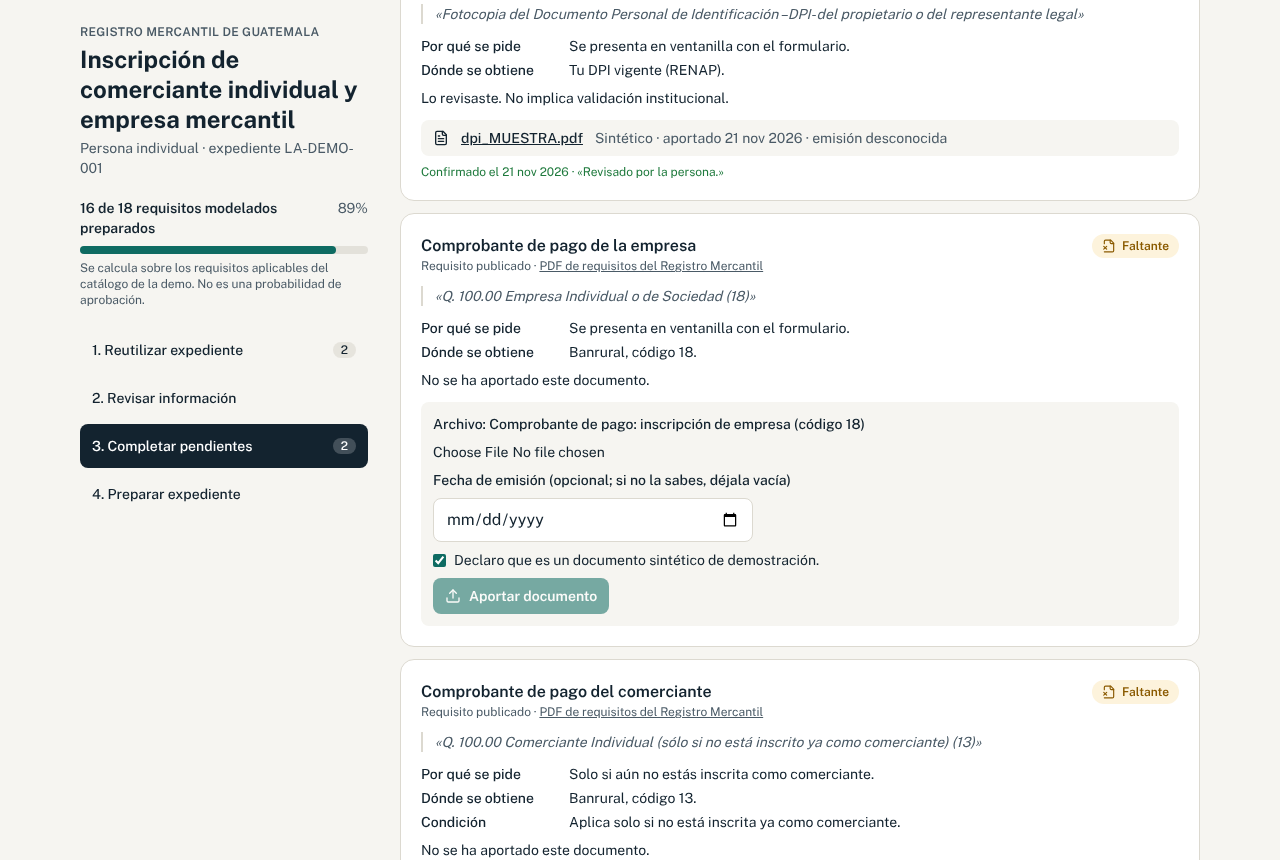
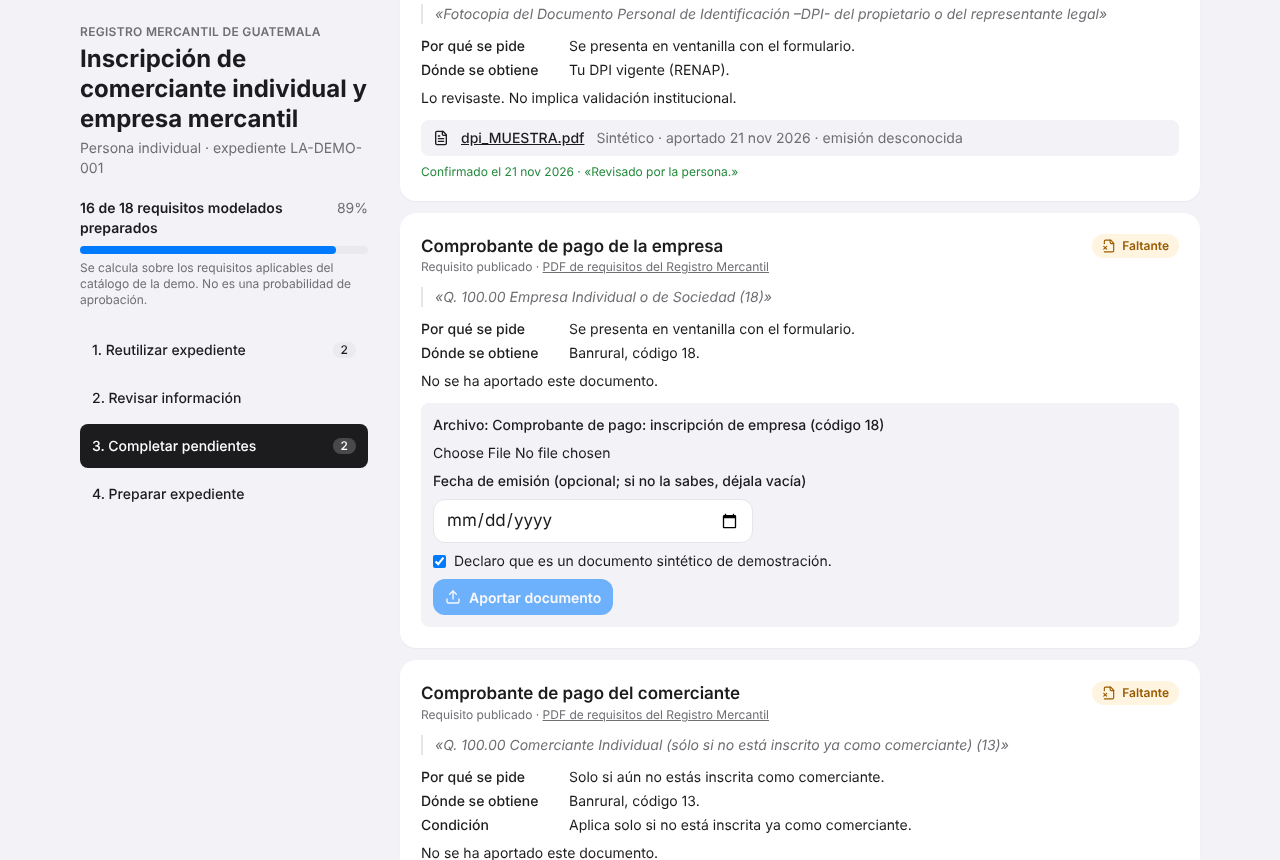
Pantalla principal con buscador de trámites y página de inicio por trámite con video de ejemplo (estilo iOS)

diff --git a/src/app/page.tsx b/src/app/page.tsx
@@ -1,73 +1,43 @@
 import Link from "next/link";
-import { Building2, ShieldPlus, ArrowRightLeft } from "lucide-react";
-import { IniciarTramite } from "@/components/IniciarTramite";
-import { BarraAvance } from "@/components/ui";
+import { Buscador, type OpcionTramite } from "@/components/Buscador";
 import { ESTADO_SALIDA } from "@/domain/exportar";
-import { catalogo, evaluar, fuentesImportadas, procesoPorTramite } from "@/server/repo";
+import { catalogo, evaluar, procesoPorTramite } from "@/server/repo";
 
 export const dynamic = "force-dynamic";
 
-const ICONOS: Record<string, typeof Building2> = { "rm-comerciante-empresa": Building2, "igss-inscripcion-patronal": ShieldPlus };
+const PALABRAS: Record<string, { resumen: string; palabras: string[] }> = {
+  "rm-comerciante-empresa": {
+    resumen: "Inscribe tu negocio y obtén la patente de comercio.",
+    palabras: ["registro mercantil", "empresa", "negocio", "comercio", "comerciante", "patente", "abrir", "inscribir", "tienda"],
+  },
+  "igss-inscripcion-patronal": {
+    resumen: "Inscríbete como patrono cuando tienes trabajadores.",
+    palabras: ["igss", "seguro social", "patrono", "patronal", "trabajadores", "empleados", "afiliación"],
+  },
+};
 
 export default function Inicio() {
-  const fuentes = fuentesImportadas();
+  const tramites: OpcionTramite[] = catalogo.tramites.map((t) => {
+    const ev = procesoPorTramite(t.id) ? evaluar(t.id) : null;
+    return {
+      id: t.id,
+      nombre: t.nombre,
+      institucion: t.institucion,
+      resumen: PALABRAS[t.id]?.resumen ?? "",
+      palabras: PALABRAS[t.id]?.palabras ?? [],
+      estado: ev ? `En curso · ${ev.evaluacion.resumen.preparados} de ${ev.evaluacion.resumen.aplicables} listos · ${ESTADO_SALIDA[ev.evaluacion.resumen.estadoExpediente]}` : null,
+    };
+  });
   return (
-    <div className="space-y-10">
-      <section className="max-w-3xl">
-        <p className="text-sm font-semibold uppercase tracking-wide text-marca">Expediente de María López · comerciante ficticia</p>
-        <h1 className="mt-2 text-3xl font-bold tracking-tight sm:text-4xl">Prepara tus trámites sin volver a escribir lo que ya existe</h1>
-        <p className="mt-3 text-lg text-tinta-suave">
-          LegacyArchive lee tus datos de sistemas incompatibles, conserva de dónde salió cada valor y te pide solo lo que falta o lo que hay que confirmar.
-          El resultado es un expediente descargable para continuar por el canal oficial.
-        </p>
-      </section>
-
-      <section aria-labelledby="titulo-tramites">
-        <h2 id="titulo-tramites" className="text-xl font-bold">1. Elige el trámite</h2>
-        <div className="mt-4 grid gap-4 lg:grid-cols-2">
-          {catalogo.tramites.map((t, i) => {
-            const p = procesoPorTramite(t.id);
-            const ev = p ? evaluar(t.id) : null;
-            const Icono = ICONOS[t.id] ?? Building2;
-            return (
-              <article key={t.id} className="tarjeta flex flex-col gap-5 p-5 sm:p-6">
-                <div className="flex items-start gap-3">
-                  <span className="grid size-11 shrink-0 place-items-center rounded-xl bg-marca-clara text-marca"><Icono aria-hidden className="size-6" /></span>
-                  <div>
-                    <p className="text-xs font-semibold uppercase tracking-wide text-tinta-suave">Paso {i + 1} · {t.institucion}</p>
-                    <h3 className="text-lg font-bold leading-snug">{t.nombre}</h3>
-                  </div>
-                </div>
-                {ev ? (
-                  <div className="space-y-2">
-                    <BarraAvance preparados={ev.evaluacion.resumen.preparados} aplicables={ev.evaluacion.resumen.aplicables} />
-                    <p className="text-sm"><span className="font-semibold">Estado:</span> {ESTADO_SALIDA[ev.evaluacion.resumen.estadoExpediente]}</p>
-                  </div>
-                ) : (
-                  <p className="text-sm text-tinta-suave">
-                    {t.id === "igss-inscripcion-patronal"
-                      ? "Aplica a patronos que ocupen uno o más trabajadores. Reutiliza lo que ya preparaste para el Registro Mercantil."
-                      : "Primer expediente: importa tus fuentes, resuelve diferencias y descubre qué falta."}
-                  </p>
-                )}
-                <div className="mt-auto">
-                  <IniciarTramite tramiteId={t.id} preguntaInscrita={t.id === "rm-comerciante-empresa"} abierto={!!p} />
-                </div>
-              </article>
-            );
-          })}
-        </div>
-      </section>
-
-      <section className="tarjeta flex flex-col gap-3 p-5 sm:flex-row sm:items-center sm:justify-between">
-        <div className="flex items-start gap-3">
-          <ArrowRightLeft aria-hidden className="mt-0.5 size-5 text-marca" />
-          <p className="text-sm">
-            <strong>{fuentes.length} fuentes importadas</strong> en tu expediente. Los archivos originales no se modifican; cada corrección queda registrada aquí con fecha y motivo.
-          </p>
-        </div>
-        <Link href="/expediente" className="boton boton-secundario boton-chico">Ver mi expediente</Link>
-      </section>
+    <div className="flex min-h-[60dvh] flex-col items-center pt-4 sm:pt-12">
+      <h1 className="text-center text-[34px] font-bold leading-tight tracking-tight sm:text-5xl">¿Qué trámite deseas hacer hoy?</h1>
+      <p className="mt-3 max-w-xl text-center text-lg text-tinta-suave">Escribe lo que necesitas. Te pedimos solo lo que falta.</p>
+      <div className="mt-8 w-full">
+        <Buscador tramites={tramites} />
+      </div>
+      <p className="mt-10 text-center text-sm text-tinta-suave">
+        Persona de la demo: María López (ficticia). <Link href="/expediente" className="text-marca">Ver mi expediente</Link>
+      </p>
     </div>
   );
 }

diff --git a/src/components/IniciarTramite.tsx b/src/components/IniciarTramite.tsx
@@ -21,7 +21,7 @@ export function IniciarTramite({ tramiteId, preguntaInscrita, abierto }: { trami
 
   return (
     <form
-      className="space-y-4"
+      className="space-y-5"
       onSubmit={async (e) => {
         e.preventDefault();
         const r = await ejecutar("/api/procesos", { tramiteId, tipoSolicitante: "persona_individual", copropiedad, ...(preguntaInscrita ? { inscrita_comerciante: inscrita } : {}) });
@@ -29,13 +29,13 @@ export function IniciarTramite({ tramiteId, preguntaInscrita, abierto }: { trami
       }}
     >
       <fieldset>
-        <legend className="text-sm font-semibold">Tipo de solicitante</legend>
+        <legend className="text-[17px] font-semibold">Tipo de solicitante</legend>
         <div className="mt-2 grid gap-2 sm:grid-cols-2">
-          <label className="flex items-start gap-2 rounded-lg border border-marca bg-marca-clara p-3 text-sm">
+          <label className="flex items-start gap-3 rounded-xl border-2 border-marca bg-marca-clara p-3.5 text-[15px]">
             <input type="radio" name={`tipo-${tramiteId}`} defaultChecked className="mt-1 accent-marca" />
             <span><strong>Persona individual</strong><br />Comerciante, propietaria única</span>
           </label>
-          <label className="flex items-start gap-2 rounded-lg border border-linea p-3 text-sm text-tinta-suave">
+          <label className="flex items-start gap-3 rounded-xl border border-linea p-3.5 text-[15px] text-tinta-suave">
             <input type="radio" name={`tipo-${tramiteId}`} disabled className="mt-1" />
             <span><strong>Sociedad</strong><br />Fuera del alcance de la demo</span>
           </label>
@@ -45,7 +45,7 @@ export function IniciarTramite({ tramiteId, preguntaInscrita, abierto }: { trami
         <Pregunta nombre={`inscrita-${tramiteId}`} texto="¿Ya estás inscrita como comerciante individual?" valor={inscrita} onChange={setInscrita} ayuda="Define si aplica el pago de comerciante (código 13)." />
       )}
       <Pregunta nombre={`copro-${tramiteId}`} texto="¿La empresa tiene copropietarios?" valor={copropiedad} onChange={setCopropiedad} ayuda={copropiedad === "si" ? "La demo no modela copropiedad completa; se pedirán documentos adicionales." : "Responde con lo que sabes hoy; puedes corregirlo después."} />
-      <button className="boton boton-primario w-full sm:w-auto" disabled={ocupado}>
+      <button className="boton boton-primario w-full" disabled={ocupado}>
         {ocupado ? "Abriendo…" : "Empezar este trámite"} <ArrowRight aria-hidden className="size-4" />
       </button>
       <MensajeError error={error} />
@@ -56,16 +56,16 @@ export function IniciarTramite({ tramiteId, preguntaInscrita, abierto }: { trami
 function Pregunta({ nombre, texto, valor, onChange, ayuda }: { nombre: string; texto: string; valor: "si" | "no"; onChange: (v: "si" | "no") => void; ayuda: string }) {
   return (
     <fieldset>
-      <legend className="text-sm font-semibold">{texto}</legend>
-      <div className="mt-2 flex gap-2">
+      <legend className="text-[17px] font-semibold">{texto}</legend>
+      <div className="mt-2 grid grid-cols-2 gap-1 rounded-xl bg-papel p-1 sm:max-w-xs">
         {(["no", "si"] as const).map((v) => (
-          <label key={v} className={`flex min-h-11 cursor-pointer items-center gap-2 rounded-lg border px-4 text-sm ${valor === v ? "border-marca bg-marca-clara font-semibold" : "border-linea bg-white"}`}>
-            <input type="radio" name={nombre} checked={valor === v} onChange={() => onChange(v)} className="accent-marca" />
+          <label key={v} className={`flex min-h-11 cursor-pointer items-center justify-center rounded-lg text-[17px] transition-[background-color,box-shadow] duration-150 has-[:focus-visible]:ring-2 has-[:focus-visible]:ring-marca ${valor === v ? "bg-white font-semibold shadow-[0_1px_3px_rgba(0,0,0,.12)]" : "text-tinta-suave"}`}>
+            <input type="radio" name={nombre} checked={valor === v} onChange={() => onChange(v)} className="sr-only" />
             {v === "si" ? "Sí" : "No"}
           </label>
         ))}
       </div>
-      <p className="mt-1 text-xs text-tinta-suave">{ayuda}</p>
+      <p className="mt-1.5 text-sm text-tinta-suave">{ayuda}</p>
     </fieldset>
   );
 }

diff --git a/src/app/tramite/[id]/inicio/page.tsx b/src/app/tramite/[id]/inicio/page.tsx
@@ -1,0 +1,67 @@
+import Link from "next/link";
+import { notFound } from "next/navigation";
+import { ChevronLeft, ExternalLink, PlayCircle } from "lucide-react";
+import { IniciarTramite } from "@/components/IniciarTramite";
+import { procesoPorTramite, tramite } from "@/server/repo";
+
+export const dynamic = "force-dynamic";
+
+const EXPLICACION: Record<string, { resumen: string; pasos: string[] }> = {
+  "rm-comerciante-empresa": {
+    resumen: "Sirve para inscribirte como comerciante individual e inscribir tu empresa. Al final obtienes la patente de comercio.",
+    pasos: ["Respondes tres preguntas.", "Traemos tus datos de los sistemas donde ya están.", "Revisas, completas lo que falta y descargas tu expediente."],
+  },
+  "igss-inscripcion-patronal": {
+    resumen: "Si tu negocio tiene uno o más trabajadores, debes inscribirte como patrono en el IGSS.",
+    pasos: ["Respondes una pregunta.", "Usamos lo que ya preparaste para el Registro Mercantil.", "Completas lo que falta y descargas tu expediente."],
+  },
+};
+
+export default async function InicioTramite({ params }: { params: Promise<{ id: string }> }) {
+  const { id } = await params;
+  const t = tramite(id);
+  if (!t) notFound();
+  const abierto = !!procesoPorTramite(id);
+  const info = EXPLICACION[id];
+  return (
+    <div className="mx-auto max-w-2xl space-y-6">
+      <Link href="/" className="inline-flex min-h-11 items-center gap-1 text-[17px] text-marca"><ChevronLeft aria-hidden className="size-5" /> Trámites</Link>
+      <header>
+        <p className="text-sm font-medium uppercase tracking-wide text-tinta-suave">{t.institucion}</p>
+        <h1 className="mt-1 text-3xl font-bold leading-tight tracking-tight">{t.nombre}</h1>
+        {info && <p className="mt-2 text-lg text-tinta-suave">{info.resumen}</p>}
+      </header>
+
+      <section aria-labelledby="t-video">
+        <h2 id="t-video" className="sr-only">Video explicativo</h2>
+        <div className="relative grid aspect-video w-full max-w-full place-items-center overflow-hidden rounded-2xl bg-tinta text-white">
+          <div className="flex flex-col items-center gap-2 px-6 text-center">
+            <PlayCircle aria-hidden className="size-16 opacity-90" strokeWidth={1.25} />
+            <p className="text-lg font-semibold">Cómo hacer este trámite</p>
+            <p className="text-sm text-white/70">Video de ejemplo pendiente de grabar. No es un video oficial.</p>
+          </div>
+          <span className="absolute left-3 top-3 rounded-full bg-white/15 px-2.5 py-1 text-xs font-semibold">Ejemplo</span>
+        </div>
+        {info && (
+          <ol className="mt-4 space-y-2">
+            {info.pasos.map((p, i) => (
+              <li key={p} className="flex items-start gap-3 text-[17px]">
+                <span className="grid size-7 shrink-0 place-items-center rounded-full bg-marca-clara text-sm font-semibold text-marca">{i + 1}</span>
+                {p}
+              </li>
+            ))}
+          </ol>
+        )}
+      </section>
+
+      <section className="rounded-2xl bg-white p-5 sm:p-6" aria-labelledby="t-preguntas">
+        <h2 id="t-preguntas" className="mb-4 text-xl font-bold">{abierto ? "Ya empezaste este trámite" : "Antes de empezar"}</h2>
+        <IniciarTramite tramiteId={t.id} preguntaInscrita={t.id === "rm-comerciante-empresa"} abierto={abierto} />
+      </section>
+
+      <a href={t.canal_oficial_url} target="_blank" rel="noreferrer" className="inline-flex min-h-11 items-center gap-1.5 text-[15px] text-marca">
+        Ver la información oficial de {t.nombre_corto} <ExternalLink aria-hidden className="size-4" />
+      </a>
+    </div>
+  );
+}

diff --git a/src/components/Buscador.tsx b/src/components/Buscador.tsx
@@ -1,0 +1,73 @@
+"use client";
+import { useMemo, useState } from "react";
+import Link from "next/link";
+import { ChevronRight, Search, X } from "lucide-react";
+import { quitarAcentos } from "@/domain/normalizar";
+
+export interface OpcionTramite {
+  id: string;
+  nombre: string;
+  institucion: string;
+  resumen: string;
+  palabras: string[];
+  estado: string | null;
+}
+
+const normal = (s: string) => quitarAcentos(s).toLowerCase();
+
+export function Buscador({ tramites }: { tramites: OpcionTramite[] }) {
+  const [q, setQ] = useState("");
+  const resultados = useMemo(() => {
+    const t = normal(q.trim());
+    if (!t) return tramites;
+    return tramites.filter((x) => normal([x.nombre, x.institucion, x.resumen, ...x.palabras].join(" ")).includes(t) || t.split(" ").every((w) => normal([x.nombre, x.institucion, ...x.palabras].join(" ")).includes(w)));
+  }, [q, tramites]);
+
+  return (
+    <div className="mx-auto w-full max-w-2xl">
+      <label htmlFor="buscar-tramite" className="sr-only">Busca tu trámite</label>
+      <div className="flex items-center gap-3 rounded-2xl bg-white px-4 shadow-[0_1px_3px_rgba(0,0,0,.08)] ring-1 ring-black/5 focus-within:ring-2 focus-within:ring-marca">
+        <Search aria-hidden className="size-5 shrink-0 text-tinta-suave" />
+        <input
+          id="buscar-tramite"
+          type="search"
+          autoComplete="off"
+          value={q}
+          onChange={(e) => setQ(e.target.value)}
+          placeholder="Ej.: abrir mi negocio, patente, IGSS…"
+          className="h-14 w-full bg-transparent text-lg outline-none placeholder:text-tinta-suave/70 [&::-webkit-search-cancel-button]:hidden"
+        />
+        {q && (
+          <button type="button" onClick={() => setQ("")} className="grid size-8 place-items-center rounded-full bg-linea text-tinta-suave" aria-label="Borrar búsqueda">
+            <X aria-hidden className="size-4" />
+          </button>
+        )}
+      </div>
+
+      <p className="mt-6 mb-2 px-4 text-sm font-medium uppercase tracking-wide text-tinta-suave" aria-live="polite">
+        {q.trim() ? `${resultados.length} resultado${resultados.length === 1 ? "" : "s"}` : "Trámites disponibles"}
+      </p>
+      {resultados.length > 0 ? (
+        <ul className="overflow-hidden rounded-2xl bg-white shadow-[0_1px_3px_rgba(0,0,0,.06)]">
+          {resultados.map((t, i) => (
+            <li key={t.id} className={i > 0 ? "border-t border-linea ml-4" : ""}>
+              <Link href={`/tramite/${t.id}/inicio`} className={`flex min-h-16 items-center gap-3 py-3 pr-4 ${i > 0 ? "" : "pl-4"} transition-colors active:bg-papel`}>
+                <span className="min-w-0 flex-1">
+                  <span className="block text-[17px] font-semibold leading-snug">{t.nombre}</span>
+                  <span className="block text-[15px] text-tinta-suave">{t.institucion}</span>
+                  {t.estado && <span className="mt-1 inline-block rounded-full bg-marca-clara px-2 py-0.5 text-xs font-semibold text-marca">{t.estado}</span>}
+                </span>
+                <ChevronRight aria-hidden className="size-5 shrink-0 text-tinta-suave/60" />
+              </Link>
+            </li>
+          ))}
+        </ul>
+      ) : (
+        <div className="rounded-2xl bg-white p-5 text-center">
+          <p className="font-semibold">No encontramos ese trámite</p>
+          <p className="mt-1 text-[15px] text-tinta-suave">Esta demo incluye la inscripción en el Registro Mercantil y la inscripción patronal del IGSS. Prueba con «negocio» o «IGSS».</p>
+        </div>
+      )}
+    </div>
+  );
+}

diff --git a/src/app/globals.css b/src/app/globals.css
@@ -1,31 +1,32 @@
 @import "tailwindcss";
 
 @theme {
-  --font-sans: "Public Sans Variable", ui-sans-serif, system-ui, sans-serif;
-  --color-tinta: #13232f;
-  --color-tinta-suave: #4a5a66;
-  --color-papel: #f6f5f1;
-  --color-linea: #dcd9d0;
-  --color-marca: #0e6b62;
-  --color-marca-oscura: #0a4f48;
-  --color-marca-clara: #e3f1ee;
-  --color-ok: #1f7a3d;
-  --color-ok-fondo: #e6f4ea;
-  --color-aviso: #8a5a00;
-  --color-aviso-fondo: #fdf3dc;
-  --color-alerta: #b3261e;
-  --color-alerta-fondo: #fbe9e7;
-  --color-info: #2d4f86;
-  --color-info-fondo: #e8eef8;
+  /* Estilo tipo iOS: tipografía del sistema, grises de iOS y azul del sistema. */
+  --font-sans: -apple-system, BlinkMacSystemFont, "SF Pro Text", "Segoe UI", "Public Sans Variable", system-ui, sans-serif;
+  --color-tinta: #1c1c1e;
+  --color-tinta-suave: #6e6e73;
+  --color-papel: #f2f2f7;
+  --color-linea: #e5e5ea;
+  --color-marca: #007aff;
+  --color-marca-oscura: #0062cc;
+  --color-marca-clara: #e8f1ff;
+  --color-ok: #248a3d;
+  --color-ok-fondo: #e8f6ec;
+  --color-aviso: #9a5b00;
+  --color-aviso-fondo: #fff4e0;
+  --color-alerta: #d70015;
+  --color-alerta-fondo: #ffeceb;
+  --color-info: #0062cc;
+  --color-info-fondo: #e8f1ff;
   --ease-salida: cubic-bezier(0.23, 1, 0.32, 1);
 }
 
 html { background: var(--color-papel); color: var(--color-tinta); }
-body { font-family: var(--font-sans); -webkit-font-smoothing: antialiased; }
+body { font-family: var(--font-sans); -webkit-font-smoothing: antialiased; font-size: 17px; }
 
 .boton {
   display: inline-flex; align-items: center; justify-content: center; gap: .5rem;
-  border-radius: .5rem; padding: .625rem 1rem; font-weight: 600; font-size: .9375rem;
+  border-radius: .75rem; padding: .75rem 1.25rem; font-weight: 600; font-size: 1rem;
   transition: transform 160ms var(--ease-salida), background-color 150ms ease, box-shadow 150ms ease;
   min-height: 44px;
 }
@@ -38,8 +39,8 @@ body { font-family: var(--font-sans); -webkit-font-smoothing: antialiased; }
 
 :focus-visible { outline: 3px solid #f2b600; outline-offset: 2px; border-radius: 4px; }
 
-.tarjeta { background: white; border: 1px solid var(--color-linea); border-radius: .875rem; }
-.campo { width: 100%; border: 1px solid var(--color-linea); border-radius: .5rem; padding: .5rem .75rem; background: white; min-height: 44px; }
+.tarjeta { background: white; border: 1px solid transparent; border-radius: 1rem; box-shadow: 0 1px 2px rgba(0,0,0,.04); }
+.campo { width: 100%; border: 1px solid var(--color-linea); border-radius: .75rem; padding: .5rem .75rem; background: white; min-height: 44px; }
 
 .aparecer { animation: aparecer 220ms var(--ease-salida) both; }
 @keyframes aparecer { from { opacity: 0; transform: translateY(4px); } }
